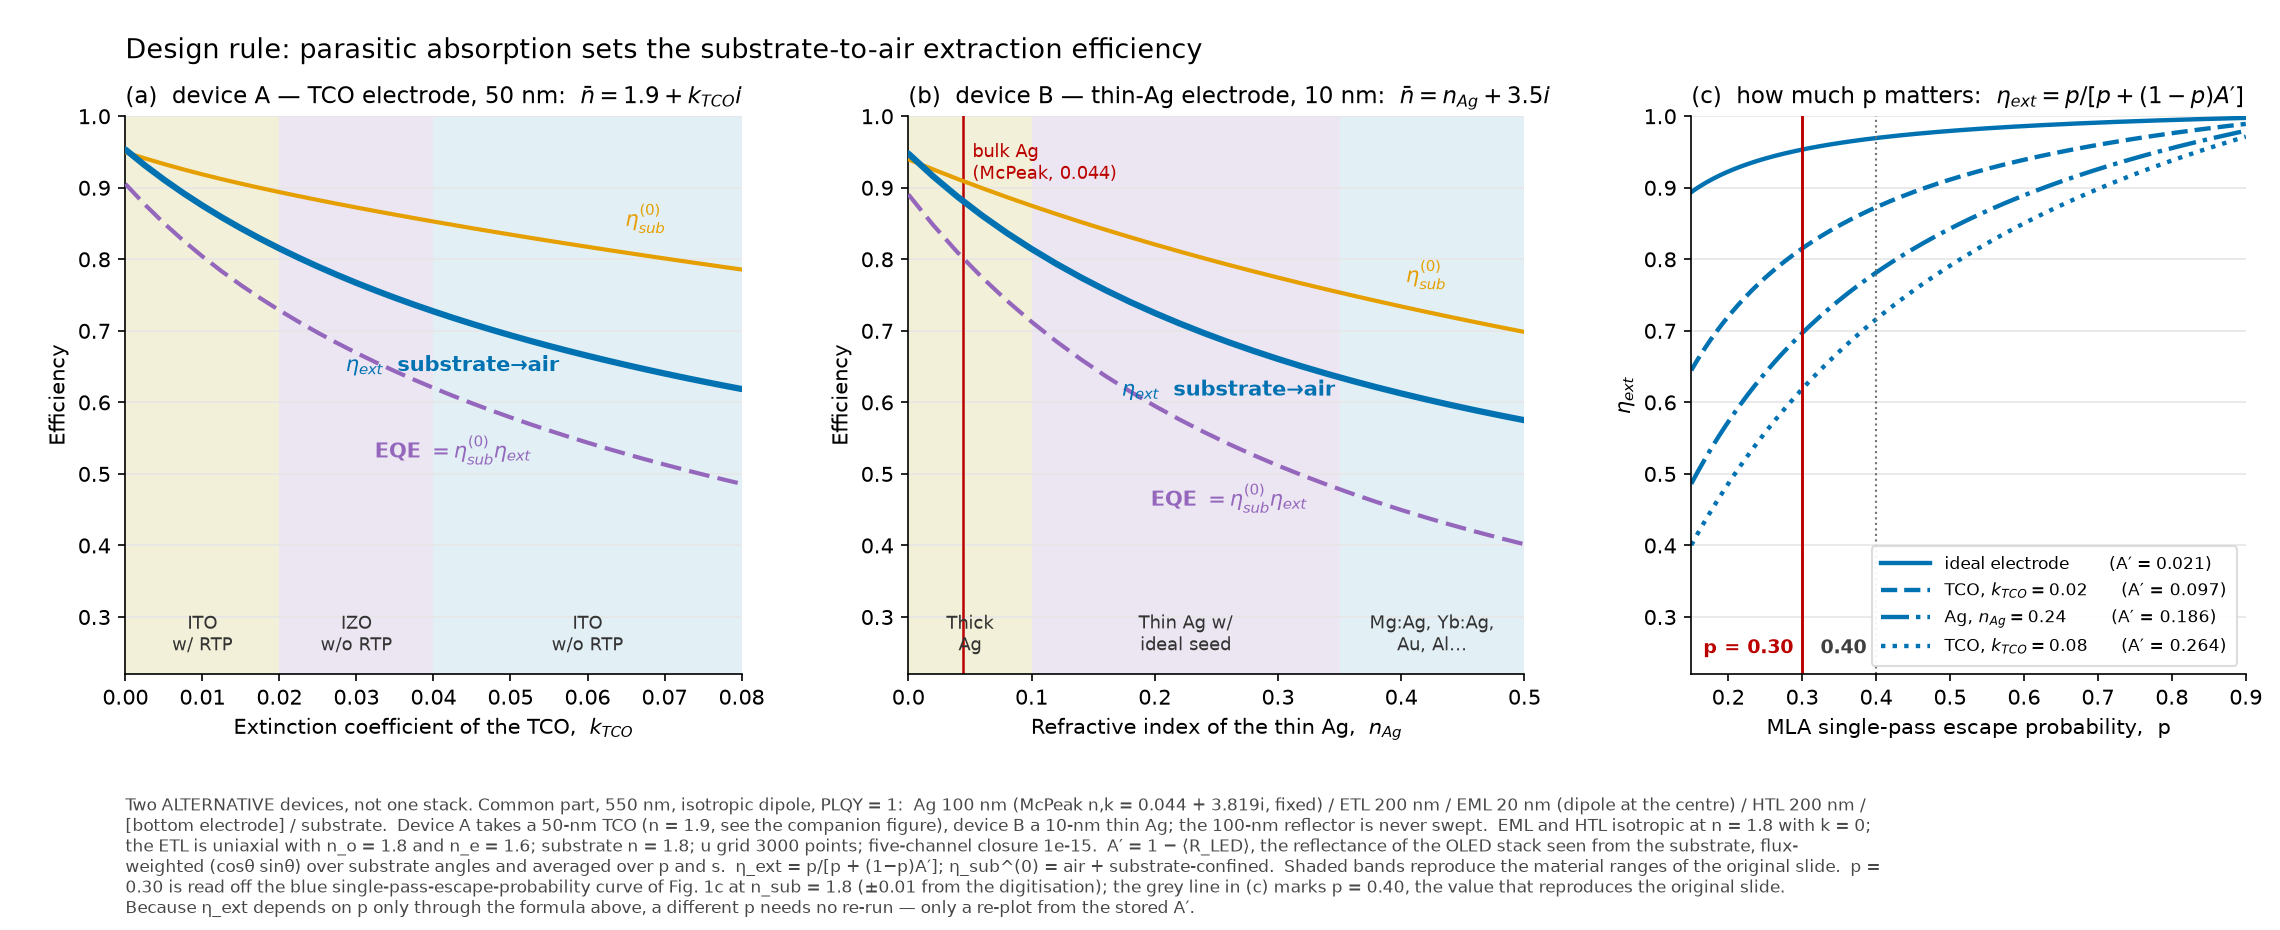
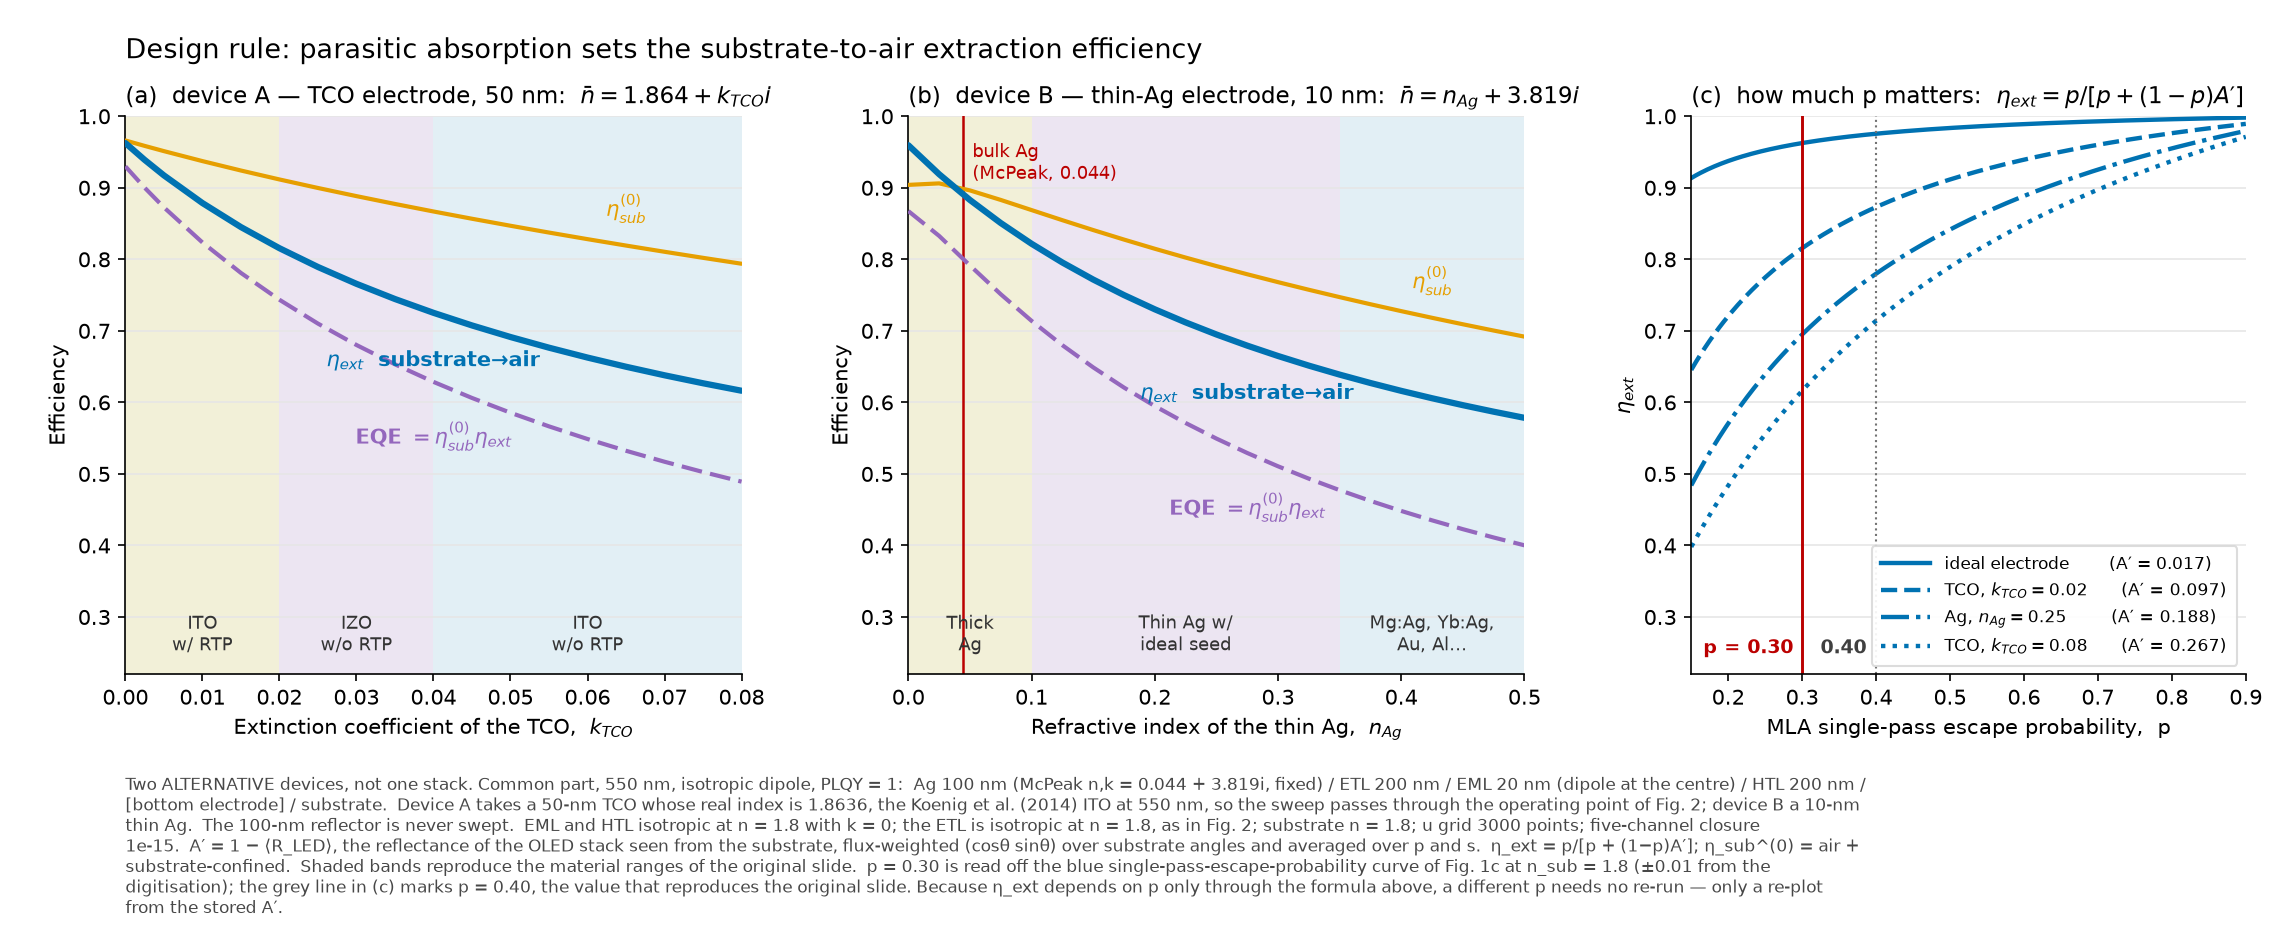
Re-run Fig. 3(a) on the Fig. 2 stack
The earlier sweeps predate the settled optical constants: they used a
TCO real index of 1.9, a uniaxial ETL at n_e = 1.6 and a thin-Ag k of
3.5. The first and third no longer match Fig. 2, and the second is the
worst extraordinary index at n_sub = 1.8 by our own analysis.

Both sweeps are redone with the Koenig real index, an isotropic ETL and
the McPeak k for the thin electrode, which also gains the absorption
split between reflector and electrode. At k_TCO = 0.0032 the TCO device
now reproduces the Fig. 2 operating point exactly, eta_sub = 0.9564 and
A' = 0.0310, so the two figures sit on one stack.

Workbook added, with the extraction efficiency and EQE as live formulas
off a single p cell and a closure column, verified by recalculation.

Claude-Session: https://claude.ai/code/session_01A1WQ3WGcJw8tT3QK2n57xo

diff --git a/sim/design_rule4/plot_dr4e.py b/sim/design_rule4/plot_dr4e.py
@@ -1,6 +1,6 @@
 """Design rule #4 (parasitic absorption): two ALTERNATIVE bottom electrodes, 550 nm.
-(a) reads p_ito_n19.csv, (b) reads p_ag.csv.
-CSV columns: param, eta_sub, A', wg, spp, abs, eta_ext(0.30), eta_ext(0.40), EQE(0.30), EQE(0.40)."""
+(a) reads f3a_ito_konig.csv, (b) reads f3a_ag_konig.csv.
+CSV columns: param, eta_sub, A', wg, spp, abs, abs_top, abs_bottom, eta_ext(0.30), eta_ext(0.40), EQE(0.30), EQE(0.40)."""
 import numpy as np, matplotlib
 matplotlib.use('Agg')
 import matplotlib.pyplot as plt
@@ -8,8 +8,8 @@ import textwrap
 
 C_EXT, C_SUB, C_EQE = '#0072B2', '#E69F00', '#9467BD'
 P_USE, P_ALT = 0.30, 0.40
-ito = np.loadtxt('p_ito_n19.csv', delimiter=',')
-ag  = np.loadtxt('p_ag.csv',  delimiter=',')
+ito = np.loadtxt('f3a_ito_konig.csv', delimiter=',')
+ag  = np.loadtxt('f3a_ag_konig.csv',  delimiter=',')
 
 fig = plt.figure(figsize=(15.2, 6.2))
 gs = fig.add_gridspec(1, 3, width_ratios=[1, 1, 0.9], wspace=0.28,
@@ -24,12 +24,12 @@ for k, (ax, d) in enumerate(zip(axes[:2], (ito, ag))):
     for x0, x1, col, lab in bands[k]:
         ax.axvspan(x0, x1, color=col, alpha=0.55, lw=0, zorder=0)
         ax.text((x0+x1)/2, 0.245, lab, ha='center', va='bottom', fontsize=8.6, color='#333')
-    ax.plot(d[:, 0], d[:, 6], color=C_EXT, lw=3.0, zorder=4, solid_capstyle='round')
+    ax.plot(d[:, 0], d[:, 8], color=C_EXT, lw=3.0, zorder=4, solid_capstyle='round')
     ax.plot(d[:, 0], d[:, 1], color=C_SUB, lw=2.0, zorder=3, solid_capstyle='round')
-    ax.plot(d[:, 0], d[:, 8], color=C_EQE, lw=2.0, ls=(0, (5, 2)), zorder=3)
-    for col, xf, dy, lab, cc in ((6, 0.55, -18, '$\\eta_{ext}$  substrate→air', C_EXT),
+    ax.plot(d[:, 0], d[:, 10], color=C_EQE, lw=2.0, ls=(0, (5, 2)), zorder=3)
+    for col, xf, dy, lab, cc in ((8, 0.55, -18, '$\\eta_{ext}$  substrate→air', C_EXT),
                                  (1, 0.85, 10, '$\\eta_{sub}^{(0)}$', C_SUB),
-                                 (8, 0.55, -19, 'EQE $=\\eta_{sub}^{(0)}\\eta_{ext}$', C_EQE)):
+                                 (10, 0.55, -19, 'EQE $=\\eta_{sub}^{(0)}\\eta_{ext}$', C_EQE)):
         i = int(xf*(len(d)-1))
         ax.annotate(lab, (d[i, 0], d[i, col]), textcoords='offset points', xytext=(0, dy),
                     color=cc, fontsize=10, fontweight='bold', ha='center',
@@ -40,9 +40,9 @@ for k, (ax, d) in enumerate(zip(axes[:2], (ito, ag))):
     ax.set_ylabel('Efficiency')
 
 axes[0].set_xlim(0, 0.08); axes[0].set_xlabel('Extinction coefficient of the TCO,  $k_{TCO}$')
-axes[0].set_title('(a)  device A — TCO electrode, 50 nm:  $\\bar n=1.9+k_{TCO}i$', fontsize=11, loc='left')
+axes[0].set_title('(a)  device A — TCO electrode, 50 nm:  $\\bar n=1.864+k_{TCO}i$', fontsize=11, loc='left')
 axes[1].set_xlim(0, 0.50); axes[1].set_xlabel('Refractive index of the thin Ag,  $n_{Ag}$')
-axes[1].set_title('(b)  device B — thin-Ag electrode, 10 nm:  $\\bar n=n_{Ag}+3.5i$', fontsize=11, loc='left')
+axes[1].set_title('(b)  device B — thin-Ag electrode, 10 nm:  $\\bar n=n_{Ag}+3.819i$', fontsize=11, loc='left')
 axes[1].axvline(0.044, color='#B00', lw=1.2, ls='-')
 axes[1].text(0.052, 0.965, 'bulk Ag\n(McPeak, 0.044)', color='#B00', fontsize=8.5, va='top')
 
@@ -50,8 +50,8 @@ axes[1].text(0.052, 0.965, 'bulk Ag\n(McPeak, 0.044)', color='#B00', fontsize=8.
 ax = axes[2]
 pp = np.linspace(0.15, 0.9, 240)
 for A, lab, sty in ((ito[0, 2],  f'ideal electrode        (A′ = {ito[0,2]:.3f})', '-'),
-                    (ito[8, 2],  f'TCO, $k_{{TCO}}=0.02$      (A′ = {ito[8,2]:.3f})', '--'),
-                    (ag[12, 2],  f'Ag, $n_{{Ag}}=0.24$        (A′ = {ag[12,2]:.3f})', '-.'),
+                    (ito[5, 2],  f'TCO, $k_{{TCO}}=0.02$      (A′ = {ito[5,2]:.3f})', '--'),
+                    (ag[10, 2],  f'Ag, $n_{{Ag}}=0.25$        (A′ = {ag[10,2]:.3f})', '-.'),
                     (ito[-1, 2], f'TCO, $k_{{TCO}}=0.08$      (A′ = {ito[-1,2]:.3f})', ':')):
     ax.plot(pp, pp/(pp+(1-pp)*A), color=C_EXT, ls=sty, lw=2.1, label=lab)
 ax.legend(loc='lower right', fontsize=8.4, framealpha=0.92, edgecolor='0.85', borderpad=0.55, handlelength=2.8)
@@ -69,8 +69,8 @@ fig.suptitle('Design rule: parasitic absorption sets the substrate-to-air extrac
              x=0.055, ha='left', fontsize=13, y=0.96)
 foot = ('Two ALTERNATIVE devices, not one stack. Common part, 550 nm, isotropic dipole, PLQY = 1:  '
         'Ag 100 nm (McPeak n,k = 0.044 + 3.819i, fixed) / ETL 200 nm / EML 20 nm (dipole at the centre) / HTL 200 nm / [bottom electrode] / substrate.  '
-        'Device A takes a 50-nm TCO (n = 1.9, see the companion figure), device B a 10-nm thin Ag; the 100-nm reflector is never swept.  '
-        'EML and HTL isotropic at n = 1.8 with k = 0; the ETL is uniaxial with n_o = 1.8 and n_e = 1.6; substrate n = 1.8; u grid 3000 points; five-channel closure 1e-15.  '
+        'Device A takes a 50-nm TCO whose real index is 1.8636, the Koenig et al. (2014) ITO at 550 nm, so the sweep passes through the operating point of Fig. 2; device B a 10-nm thin Ag.  The 100-nm reflector is never swept.  '
+        'EML and HTL isotropic at n = 1.8 with k = 0; the ETL is isotropic at n = 1.8, as in Fig. 2; substrate n = 1.8; u grid 3000 points; five-channel closure 1e-15.  '
         'A′ = 1 − ⟨R_LED⟩, the reflectance of the OLED stack seen from the substrate, flux-weighted (cosθ sinθ) over substrate angles and averaged over p and s.  '
         'η_ext = p/[p + (1−p)A′]; η_sub^(0) = air + substrate-confined.  Shaded bands reproduce the material ranges of the original slide.  '
         'p = 0.30 is read off the blue single-pass-escape-probability curve of Fig. 1c at n_sub = 1.8 (±0.01 from the digitisation); the grey line in (c) marks p = 0.40, the value that reproduces the original slide. '

diff --git a/sim/design_rule4/make_fig3a_xlsx.py b/sim/design_rule4/make_fig3a_xlsx.py
@@ -1,0 +1,80 @@
+# -*- coding: utf-8 -*-
+"""Raw data behind Fig. 3(a): electrode quality, for the two alternative bottom electrodes.
+eta_ext and EQE are live formulas driven by a single p cell."""
+import numpy as np, openpyxl, os
+from openpyxl.styles import Font, PatternFill
+from openpyxl.utils import get_column_letter
+
+HERE = os.path.dirname(os.path.abspath(__file__))
+BOLD = Font(bold=True); YEL = PatternFill('solid', fgColor='FFFF00')
+F4 = '0.0000'
+A = np.loadtxt(os.path.join(HERE, 'f3a_ito_konig.csv'), delimiter=',')
+B = np.loadtxt(os.path.join(HERE, 'f3a_ag_konig.csv'), delimiter=',')
+# columns: param, eta_sub, A', wg, u>1, abs, abs_top, abs_bottom, ext(.30), ext(.40), EQE(.30), EQE(.40)
+
+wb = openpyxl.Workbook(); ws = wb.active; ws.title = 'README'
+ws.column_dimensions['A'].width = 30; ws.column_dimensions['B'].width = 108
+rows = [
+ ('Fig. 3(a) — electrode quality', None),
+ ('What the round-trip loss and the substrate-delivered power do as the transparent electrode gets worse', None),
+ (None, None), ('Model', None),
+ ('Method', 'Dipole transfer matrix (CPS) with the five-channel power budget: air + substrate-confined + waveguided + u>1 + absorbed = 1'),
+ ('Wavelength', '550 nm, single wavelength'),
+ ('Emitter', 'isotropic dipole (horizontal fraction 2/3) at the centre of the EML, PLQY = 1'),
+ ('u grid', '3000 points, maximum u = 3; the five channels close to 1.000000 on every row'),
+ (None, None), ('Stack — two alternative devices, one bottom electrode each', None),
+ ('Common part', 'Ag 100 nm (McPeak measured n,k = 0.044 + 3.819i, never swept) / ETL 200 nm / EML 20 nm / HTL 200 nm / [bottom electrode] / substrate'),
+ ('Device A (sheet a)', 'bottom electrode = 50 nm TCO, n = 1.8636 + k i, with k swept from 0 to 0.08'),
+ ('Device B (sheet b)', 'bottom electrode = 10 nm thin Ag, n = n_Ag + 3.819i, with n_Ag swept from 0 to 0.5'),
+ ('Organics', 'ETL, EML and HTL isotropic, n = 1.8, k = 0 — the same generic stack as Fig. 2'),
+ ('Substrate', 'n = 1.80, index-matched to the outcoupling structure'),
+ ('TCO real index', '1.8636, the real part of the Koenig et al. (2014) ITO at 550 nm, so the sweep passes through the operating point of Fig. 2'),
+ (None, None), ('Cross-check against Fig. 2', None),
+ ('same stack, same numbers', "at k_TCO = 0.0032 (the Koenig value) device A gives eta_sub = 0.9564 and A' = 0.0310, identical to the Ag / ITO 50 nm point of Fig. 2 at n_sub = 1.8"),
+ (None, None), ('Quantities', None),
+ ('eta_sub', 'substrate-delivered power: the fraction of dipole power that reaches the substrate at all angles (simulated)'),
+ ("A'", "round-trip loss, 1 minus the reflectance of the stack seen from the substrate, flux-weighted over angle (simulated)"),
+ ('waveguided, u>1, absorbed', 'the other three channels of the budget.  u>1 is surface plasmon plus any light guided in the electrode when its index exceeds the substrate'),
+ ('absorbed, split', 'the same absorption separated into the Ag reflector and the bottom electrode'),
+ ('eta_ext', "p / [p + (1 - p) A'].  FORMULA, driven by the p cell below"),
+ ('EQE', 'eta_sub x eta_ext.  FORMULA'),
+ (None, None), ('Input — edit this cell', None),
+ ('p (single-pass escape)', 0.30),
+ ('Source of p', 'read off the single-pass escape probability of the outcoupling structure at n_sub = 1.8'),
+ (None, None), ('Provenance', None),
+ ('Script', 'sim/design_rule4/dr4e.m (Octave), MODE=kito for sheet a and MODE=nagb for sheet b, run with UNUM=3000'),
+ ('Source files', 'f3a_ito_konig.csv and f3a_ag_konig.csv'),
+ ('Superseded', 'p_ito_n19.csv and p_ag.csv, the earlier run at n_TCO = 1.9 with a uniaxial ETL (n_e = 1.6) and a thin-Ag k of 3.5'),
+ ('Repository', 'jjoono/OLED-, branch claude/oled-efficiency-paper-ag-955zsk'),
+]
+for i, (a, b) in enumerate(rows, start=1):
+    if a is not None: ws.cell(row=i, column=1, value=a).font = BOLD
+    if b is not None:
+        c = ws.cell(row=i, column=2, value=b)
+        if isinstance(b, float): c.fill = YEL; c.font = BOLD; c.number_format = '0.00'
+ws['A1'].font = Font(bold=True, size=14)
+P_ROW = [i for i, (a, _) in enumerate(rows, start=1) if a == 'p (single-pass escape)'][0]
+
+def sheet(title, note, param, D):
+    s = wb.create_sheet(title)
+    s['A1'] = note; s['A1'].font = BOLD
+    s['A2'] = f"eta_ext and EQE are formulas driven by p in README!B{P_ROW}; the closure column re-adds the four channels"
+    hdr = [param, 'eta_sub', "A' (round trip)", 'waveguided', 'u>1 (SPP etc.)', 'absorbed',
+           '  in the Ag reflector', '  in the bottom electrode', 'eta_ext', 'EQE', 'closure check']
+    for j, h in enumerate(hdr, start=1): s.cell(row=4, column=j, value=h).font = BOLD
+    P = f'README!$B${P_ROW}'
+    for i in range(len(D)):
+        r = 5 + i
+        for j, v in enumerate(D[i, :8], start=1):
+            s.cell(row=r, column=j, value=float(v)).number_format = F4
+        s.cell(row=r, column=9, value=f'={P}/({P}+(1-{P})*C{r})').number_format = F4
+        s.cell(row=r, column=10, value=f'=B{r}*I{r}').number_format = F4
+        s.cell(row=r, column=11, value=f'=B{r}+D{r}+E{r}+F{r}').number_format = '0.000000'
+    s.column_dimensions['A'].width = 16
+    for j in range(2, 12): s.column_dimensions[get_column_letter(j)].width = 22 if j in (7, 8) else 16
+    s.freeze_panes = 'A5'
+
+sheet('a_TCO_electrode', 'Device A: 50 nm TCO bottom electrode, n = 1.8636 + k i', 'k_TCO', A)
+sheet('b_thin_Ag_electrode', 'Device B: 10 nm thin Ag bottom electrode, n = n_Ag + 3.819i', 'n_Ag', B)
+wb.save(os.path.join(HERE, 'fig3a_rawdata.xlsx'))
+print('saved fig3a_rawdata.xlsx')

diff --git a/sim/design_rule4/README.md b/sim/design_rule4/README.md
@@ -146,3 +146,44 @@ were first set up with. It coincides with the `l_ITO` entry of `nk_JH_total.mat`
 `aprime.py` computes the round-trip loss A' alone with a plain TMM — no dipole model — and
 reproduces the Octave output to 1e-4, which makes a sweep over k_TCO or n_TCO a second's work
 instead of a full run.
+
+## Fig. 3(a) re-run on the Fig. 2 stack
+
+The earlier `p_ito_n19.csv` / `p_ag.csv` pair was computed before the optical constants were
+settled, with a TCO real index of 1.9, a uniaxial ETL at n_e = 1.6 and a thin-Ag k of 3.5.
+Two of those are now inconsistent with Fig. 2, and the third is a pathological choice — our
+own analysis found n_e = 1.6 to be the *worst* extraordinary index at n_sub = 1.8, because it
+puts n_SPP 0.004 above the substrate index.
+
+`f3a_ito_konig.csv` and `f3a_ag_konig.csv` are the same two sweeps on the Fig. 2 stack:
+
+```
+Ag 100 nm (McPeak, fixed) / ETL 200 nm / EML 20 nm / HTL 200 nm / [bottom electrode] / substrate 1.80
+device A: bottom = 50 nm TCO, n = 1.8636 + k i, k swept 0 … 0.08
+device B: bottom = 10 nm Ag,  n = n_Ag + 3.819i, n_Ag swept 0 … 0.5
+organics isotropic n = 1.8, k = 0; 550 nm; isotropic dipole; PLQY = 1; u grid 3000
+```
+
+Run with `dr4e.m` (`MODE=kito` and `MODE=nagb`), so the CSVs now also carry the absorption
+split into the reflector and the bottom electrode: param, eta_sub, A', wg, u>1, abs, abs_top,
+abs_bottom, eta_ext x2, EQE x2.
+
+**The cross-check that matters**: at k_TCO = 0.0032, the Koenig value used throughout Fig. 2,
+device A gives eta_sub = 0.9564 and A' = 0.0310 — identical to the Ag / ITO 50 nm point of
+Fig. 2 at n_sub = 1.8. The two figures now sit on the same stack, so the reader can find the
+Fig. 2 device on the Fig. 3(a) curve.
+
+| device | condition | eta_sub | A' | eta_ext (p = 0.30) |
+|---|---|---|---|---|
+| A (TCO) | k = 0 | 0.966 | 0.017 | 0.963 |
+| A (TCO) | k = 0.0032 (Koenig ITO) | 0.956 | 0.031 | 0.935 |
+| A (TCO) | k = 0.02 | 0.912 | 0.097 | 0.816 |
+| A (TCO) | k = 0.08 | 0.794 | 0.267 | 0.616 |
+| B (Ag) | n_Ag = 0 (ideal metal) | 0.904 | 0.018 | 0.960 |
+| B (Ag) | n_Ag = 0.044 (bulk Ag) | 0.899 | 0.052 | 0.892 |
+| B (Ag) | n_Ag = 0.25 | 0.791 | 0.188 | 0.695 |
+| B (Ag) | n_Ag = 0.50 | 0.692 | 0.312 | 0.578 |
+
+Workbook: `fig3a_rawdata.xlsx` (`make_fig3a_xlsx.py`), two data sheets plus a README sheet,
+with eta_ext and EQE as live formulas off one p cell and a closure column that reads 1.000000
+on every row. Verified by recalculation in LibreOffice.

diff --git a/manuscript/figure_plan.md b/manuscript/figure_plan.md
@@ -156,8 +156,11 @@ now describes it in one sentence and cites the SI.
 
 **(a) Electrode quality.** η_sub^(0), η_ext and EQE against the TCO extinction coefficient
 (left) and against the real index of a 10 nm Ag electrode (right), with the material bands of
-the two electrode families. Mocked up in `figures/design_rule4/`. η_sub falls linearly, η_ext
-hyperbolically. This is the panel the design-freedom section refers back to.
+the two electrode families. Mocked up in `sim/design_rule4/dr4e_mock.png`; raw data in
+`sim/design_rule4/fig3a_rawdata.xlsx`. η_sub falls linearly, η_ext hyperbolically. This is the
+panel the design-freedom section refers back to. Both sweeps are computed on the Fig. 2 stack
+(TCO real index 1.8636, isotropic ETL, thin-Ag k = 3.819, n_sub = 1.8), so at k_TCO = 0.0032
+device A reproduces the Fig. 2 operating point exactly — η_sub = 0.9564, A′ = 0.0310.
 
 **(b) Waveguide and SPP against organic thickness and substrate index.** Mode-resolved power
 fractions. Two axes are wanted: raising n_sub to n_EML moves the waveguided power into the
